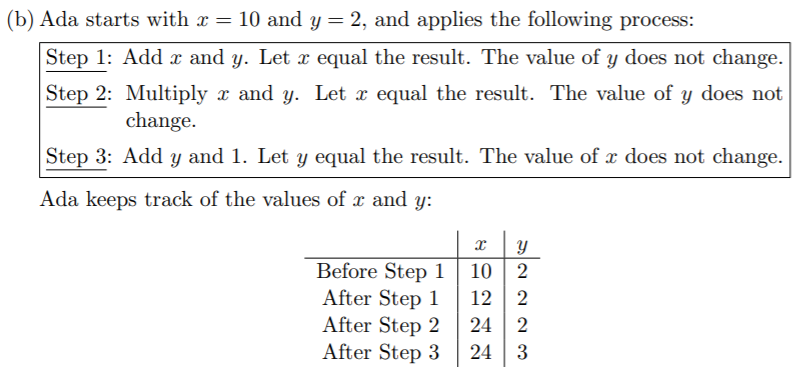
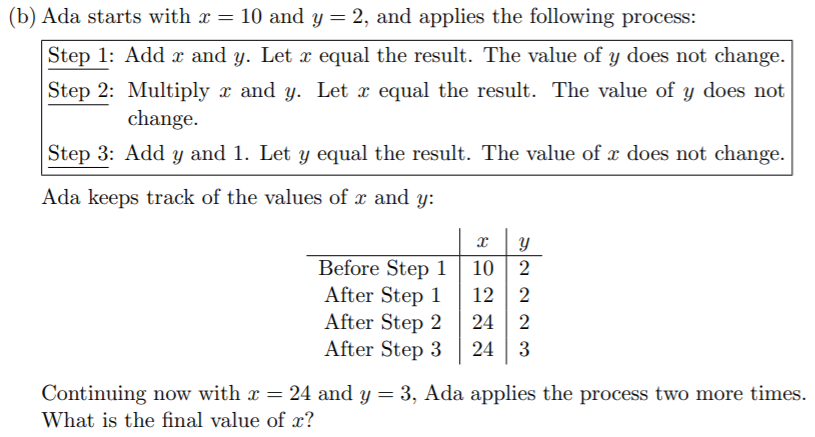
Add solution to problem 3

Changed region(s): [[0.0, 0.0, 0.995, 0.9811]]

diff --git a/blog/0/index.html b/blog/0/index.html
@@ -23,7 +23,7 @@
         <div style="display: none;" id="post-id">0</div>
         <h1 class="center"></h1>
         <div class="details"></div>
-        <img class="header-img" src="./img/header-img.png/" alt="header image">
+        <img class="header-img" src="./img/header-img.png" alt="header image">
         <p>These are my solutions to the <a href="https://cemc.uwaterloo.ca/contests/past_contests/2020/2020EuclidContest.pdf">2020 Euclid Contest</a> by the University of Waterloo. Due to the coronavirus, the contest has been cancelled,
             and as of April 27, 2020, the contest problems have been released. 
             This page is a formal write up for the solutions. It is a great place to see how math solutions are structured, however these do not provide motivation
@@ -32,43 +32,44 @@
         <p>In summary, this year's Euclid had very many algebra problems, and all the geometry problems in this contest were also algebra heavy.
             Problem nine was the most interesting one for me. The problem can be solved using a recurrence relation, and requires one to think outside
             of the box and create a closed form for this relation. The image above depicts the construction in the problem.
+            \(\)
         </p>
         <hr>
         <h2>Problem 1</h2>
-        <img width="300" src="img/1a.png" alt="1a" class="problem-img">
+        <div class="problem-img"><img src="img/1a.png" alt="1a"></div>
         <p>
             For all values of \(x \ne -2\), \(3x + 6 \over x+2 \) \(=\) \(3(x+2) \over x+2\) \(=\) \(3\). Hence, for \(x = 11\), the value of the expression is \(3\).
         </p><hr>
-        <img width="550" src="img/1b.png" alt="1b" class="problem-img">
+        <div class="problem-img"><img src="img/1b.png" alt="1b"></div>
         <p>
             The slope of the line is \(7-5 \over 1-(-1)\) \(=1\). Since the point \((-1, 5)\) exists on the line, then the point \((-1+1, 5+1) = (0, 6)\) must as well.
             Thus the y-intercept is \(y = 6\).
         </p><hr>
-        <img width="550" src="img/1c.png" alt="1c" class="problem-img">
+        <div class="problem-img"><img src="img/1c.png" alt="1c"></div>
         <p>
             Equating the y-values of the first two lines, we obtain \(3x+7=x+9 \implies x=1\). Substituting \(x\) inside the first equation yields
             \(y=10\). Since the first two lines intersect at \((3, 10)\), so must the third line. Hence, \(m+17=10 \implies m=-7\).
         </p><hr>
         <h2>Problem 2</h2>
-        <img width="550" src="img/2a.png" alt="2a" class="problem-img">
+        <div class="problem-img"><img src="img/2a.png" alt="2a"></div>
         <p>Let the three digits be \(a\), \(b\), and \(c\) respectively so that \(m=100a+10b+c\). It is given that \(a=bc\), and \(c\) is odd. Since the digits are distinct,
             \(c > 1\) and \(b > 1\), because otherwise \(a = b\) or \(a = c\). Now, since \(c\) is odd, \(c \geq 3\) and \(a \leq 9 \implies bc \leq 9 \implies 3b \leq 9 \implies b = 2\) or \(b = 3\).
             If \(b = 3\), then the smallest value \(a\) can be is \(5\), which is too large. Thus, \(b = 2\), and \(bc \leq 9\) implies that \(c \leq 4\). For odd values, the only possibility
             is \(c = 3\). Finally, \(a = 2 * 3 = 6\), and \(m = 623\).
         </p><hr>
-        <img width="550" src="img/2b.png" alt="2b" class="problem-img">
+        <div class="problem-img"><img src="img/2b.png" alt="2b"></div>
         <p>
             Initially, let there be \(g\) gold marbles and \(b\) black marbles. Then, \(b \over g\) \(=\) \(1 \over 4\) \(\implies 4b=g\). Since there are \(100\) marbles,
             \(b + g = 100 \implies 5b = 100 \implies b=20\). This means there are \(20\) black marbles and \(80\) gold marbles. Let the number of marbles that Eleanor add be
-            \(x\). Then, \(20 \over 80 + x\) \(=\) \(1 \over 6\) \(\implies x=20\). Hence she must add \(20\) gold marbles.
+            \(x\). Then, \(20 \over 80 + x\) \(=\) \(1 \over 6\) \(\implies x=40\). Hence she must add \(40\) gold marbles.
         </p><hr>
-        <img width="550" src="img/2c.png" alt="2c" class="problem-img">
+        <div class="problem-img"><img src="img/2c.png" alt="2c"></div>
         <p>
             We can rewrite the expression as \(n + 1 + \)\(15 \over n\). Since \(n + 1\) is an integer, all we need is for \(15 \over n\) to be an integer. Thus \(n\) must be a
             divisor of \(15\). For positive integers, we can have \(n=1, 3, 5, 15\).
         </p><hr>
         <h2>Problem 3</h2>
-        <img width="550" src="img/3a.png" alt="3a" class="problem-img">
+        <div class="problem-img"><img src="img/3a.png" alt="3a"></div>
         <p>
             Note that triangles \(CDE\) and \(EFG\) are both isosceles right triangles. Hence, \(CD = 1\) and \(CE = GE = \sqrt2\). Now, \(CEG\) is also an isosceles right triangle
             since \(CE = GE\) and \(\angle CEG = 180^\circ - 45^\circ - 45^\circ = 90^\circ\). 
@@ -76,10 +77,16 @@
         <p>\(BCG\) is another isosceles right triangle since \(\angle BCG = 180^\circ - \angle DCE - \angle ECG = 90^\circ\), and 
             \(\angle CBG = BGH = 45^\circ\) (\(AD\) and \(HF\) are parallel). Finally, \(BC = 2\), and \(BD = BC + CD = 3\).
         </p><hr>
-        <img width="550" src="img/3b.png" alt="3b" class="problem-img">
-        <p></p><hr>
-        <img width="550" src="img/3c.png" alt="3c" class="problem-img">
-        <p></p><hr>
+        <div class="problem-img"><img src="img/3b.png" alt="3b"></div>
+        <p>
+          After each process, \(x\) becomes \(y(x+y)\) and \(y\) becomes \(y+1\). Starting from \(x=24\) and \(y=3\), we obtain \(x=3(24+3)=81\) and \(y=4\).
+          Repeat this process one more time to obtain the final value of \(x=4(81+4) = 340\).
+        </p><hr>
+        <div class="problem-img"><img src="img/3c.png" alt="3c"></div>
+        <p>
+          For a quadratic to have two distinct roots, its determinant must be positive. Hence \(6^2-4*k*k > 0 \implies k^2 < 9 \implies |k| < 3\). The integer
+          values of \(k\) are \(k = -2, -1, 1, 2\).
+        </p><hr>
       </div>
 
       <footer>

diff --git a/styles/blog-post.css b/styles/blog-post.css
@@ -16,3 +16,15 @@
     width: 500px;
     margin: auto;
 }
+
+.problem-img {
+    display: inline-block;
+}
+.problem-img > img {
+    width: 80%;
+}
+@media only screen and (max-width: 600px) {
+    .problem-img > img {
+        width: 120%
+    }
+}
